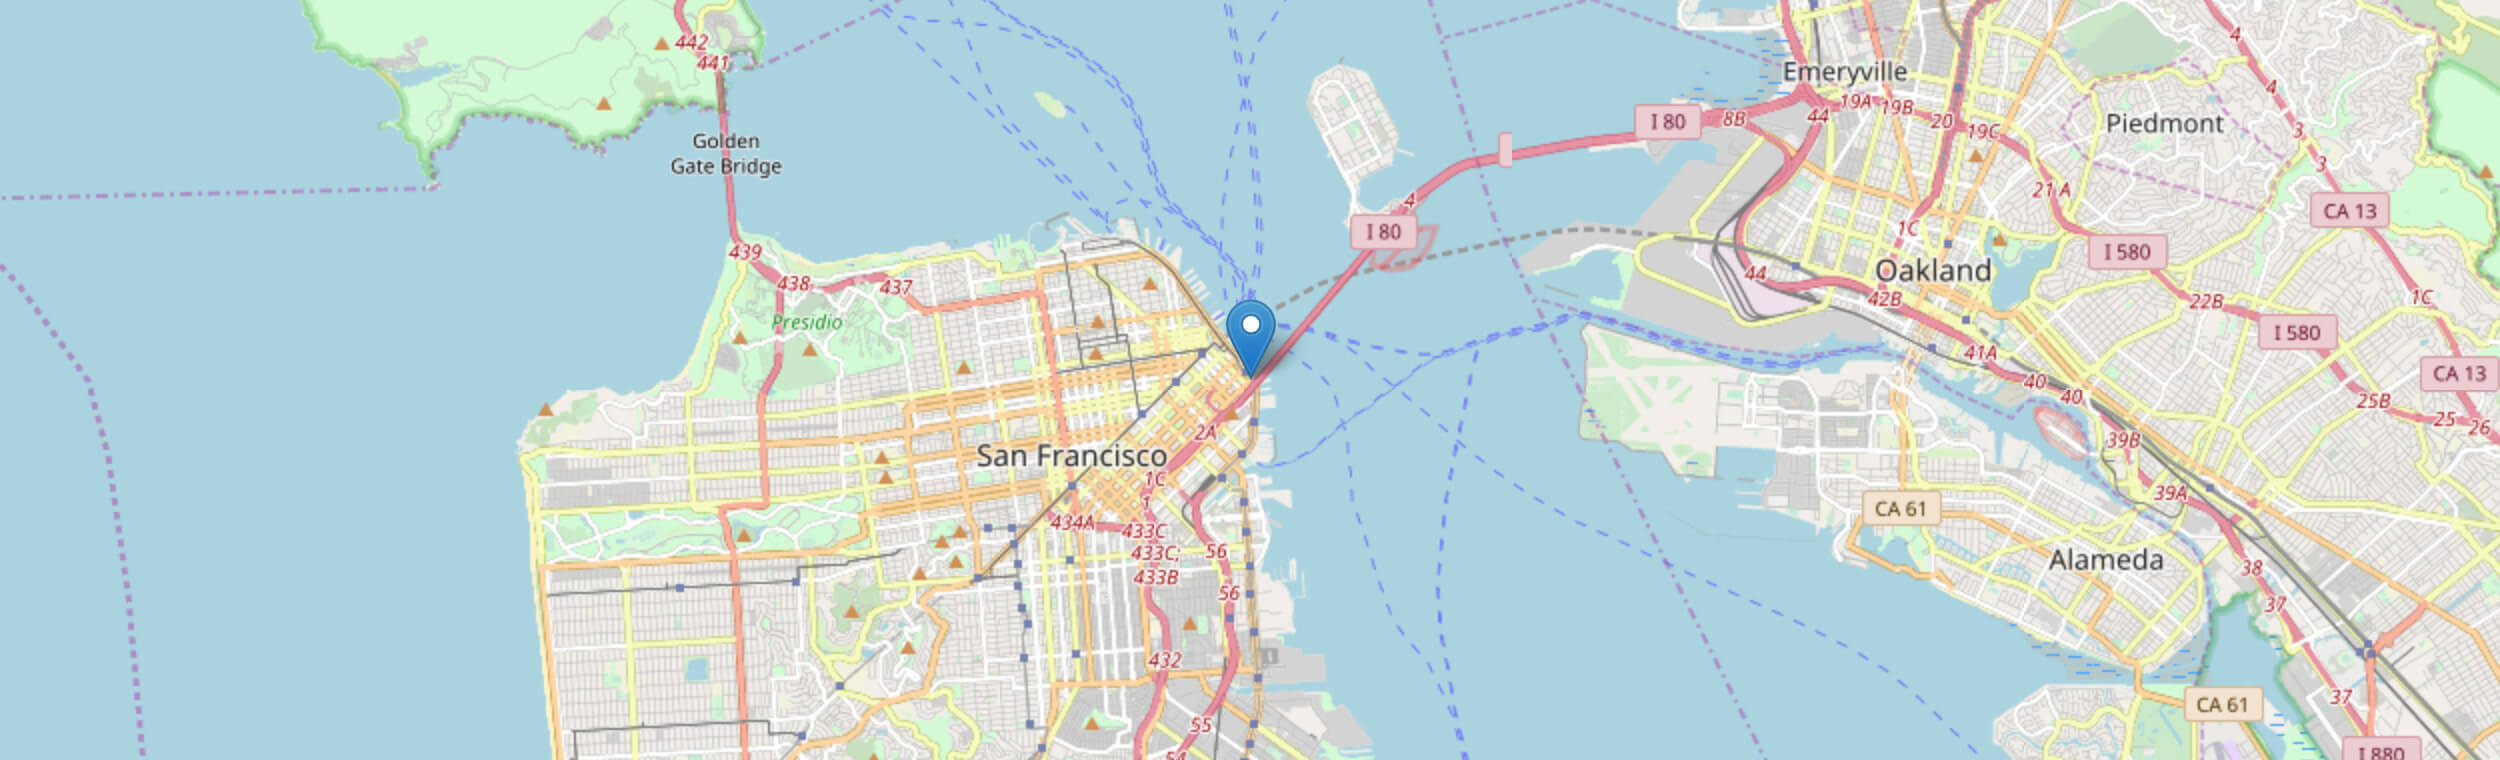
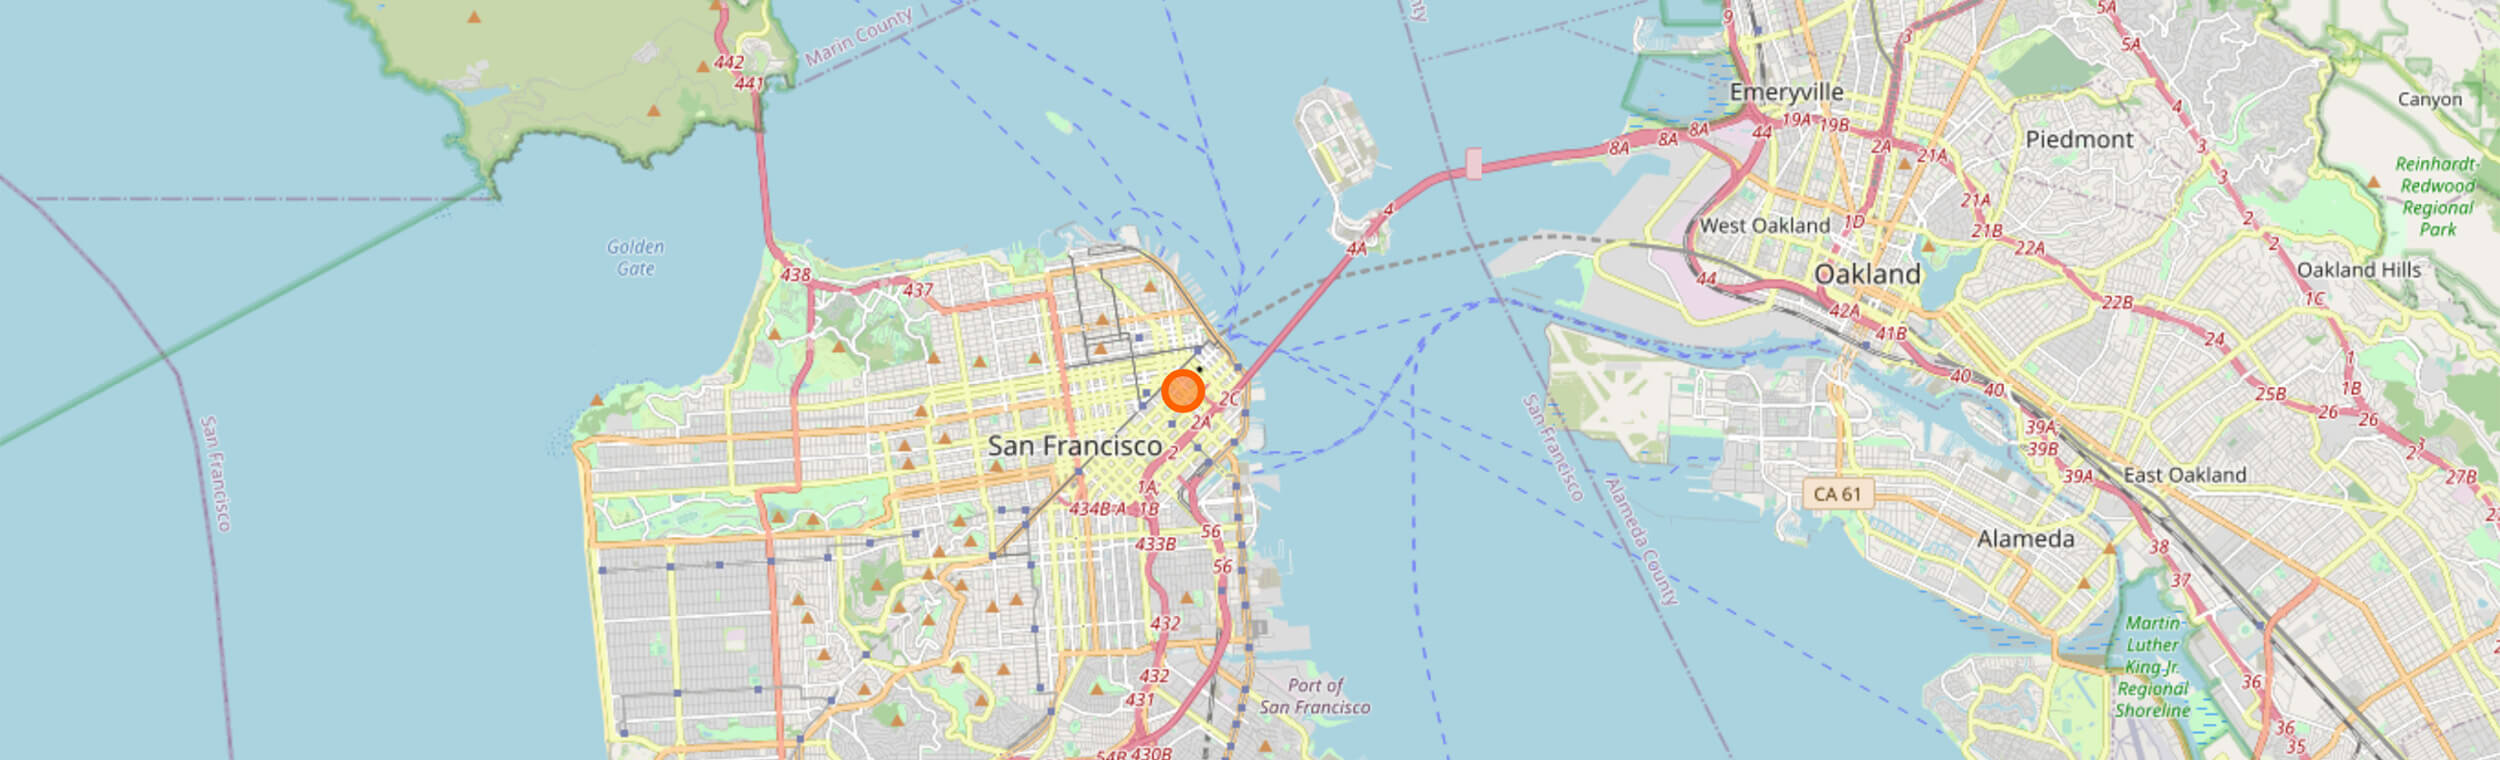
Update San Francisco address [fix #13352]
Also fix #13466

diff --git a/bedrock/mozorg/templates/mozorg/contact/spaces/san-francisco.html b/bedrock/mozorg/templates/mozorg/contact/spaces/san-francisco.html
@@ -24,7 +24,7 @@
       <div itemscope itemtype="http://schema.org/Organization" class="card vcard">
         <h2 itemprop="name" class="fn org"><span>Mozilla</span> San Francisco</h2>
         <p itemprop="address" itemscope itemtype="http://schema.org/PostalAddress" class="adr">
-          <span itemprop="streetAddress" class="street-address">2 Harrison Street <br>Suite 175</span><br>
+          <span itemprop="streetAddress" class="street-address">149 New Montgomery Street<br>4th floor</span><br>
           <span itemprop="addressLocality" class="locality">San Francisco</span>, <abbr itemprop="addressRegion" class="region" title="California">CA</abbr> <span itemprop="postalCode" class="postal-code">94105</span><br>
           <span itemprop="addressCountry" class="country-name">USA</span>
         </p>
@@ -35,7 +35,7 @@
         </ul>
 
         <figure class="feature-img">
-          {{ high_res_img('img/contact/osm/spaces/san-francisco-small.png', {'alt': '', 'width': '460', 'height': '250'}) }}
+          {{ high_res_img('img/contact/osm/spaces/san-francisco-small.jpg', {'alt': '', 'width': '460', 'height': '250'}) }}
         </figure>
       </div>
 

diff --git a/bedrock/privacy/templates/privacy/index.html b/bedrock/privacy/templates/privacy/index.html
@@ -42,7 +42,7 @@
       <span itemprop="name">Mozilla Corporation</span><br>
       <span itemprop="address" itemscope itemtype="http://schema.org/PostalAddress">
         Attn: <span itemprop="name">Mozilla - Privacy</span><br>
-        <span itemprop="streetAddress">2 Harrison St., # 175</span>,<br>
+        <span itemprop="streetAddress">149 New Montgomery St, 4th Floor</span>,<br>
         <span itemprop="addressLocality">San Francisco</span>,
         <span itemprop="addressRegion">CA</span>
         <span itemprop="postalCode">94105</span><br>

diff --git a/bedrock/legal/templates/legal/impressum.html b/bedrock/legal/templates/legal/impressum.html
@@ -18,7 +18,7 @@
 
   <h2>Sitz der Gesellschaft:</h2>
   <p itemprop="address" itemscope itemtype="http://schema.org/PostalAddress">
-    <span itemprop="streetAddress">2 Harrison Street #175</span>
+    <span itemprop="streetAddress">149 New Montgomery St, 4th Floor</span>
     <span itemprop="addressLocality">San Francisco</span>,
     <abbr itemprop="addressRegion" title="California">CA</abbr>
     <span itemprop="postalCode">94105</span>

diff --git a/bedrock/pocket/templates/pocket/contact-info.html b/bedrock/pocket/templates/pocket/contact-info.html
@@ -45,7 +45,7 @@
     <h2 class="contact-info-subheader">HQ</h2>
     <address class="contact-info-body-text address">
         Mozilla Corporation/Pocket Business Unit <br/>
-        2 Harrison Street, Suite 175 <br/>
+        149 New Montgomery St, 4th Floor <br/>
         San Francisco, CA 94105 <br/>
         <a href="tel:4156926111" aria-label="4 1 5. 6 9 2. 6 1 1 1.">415-692-6111</a>
     </address>
